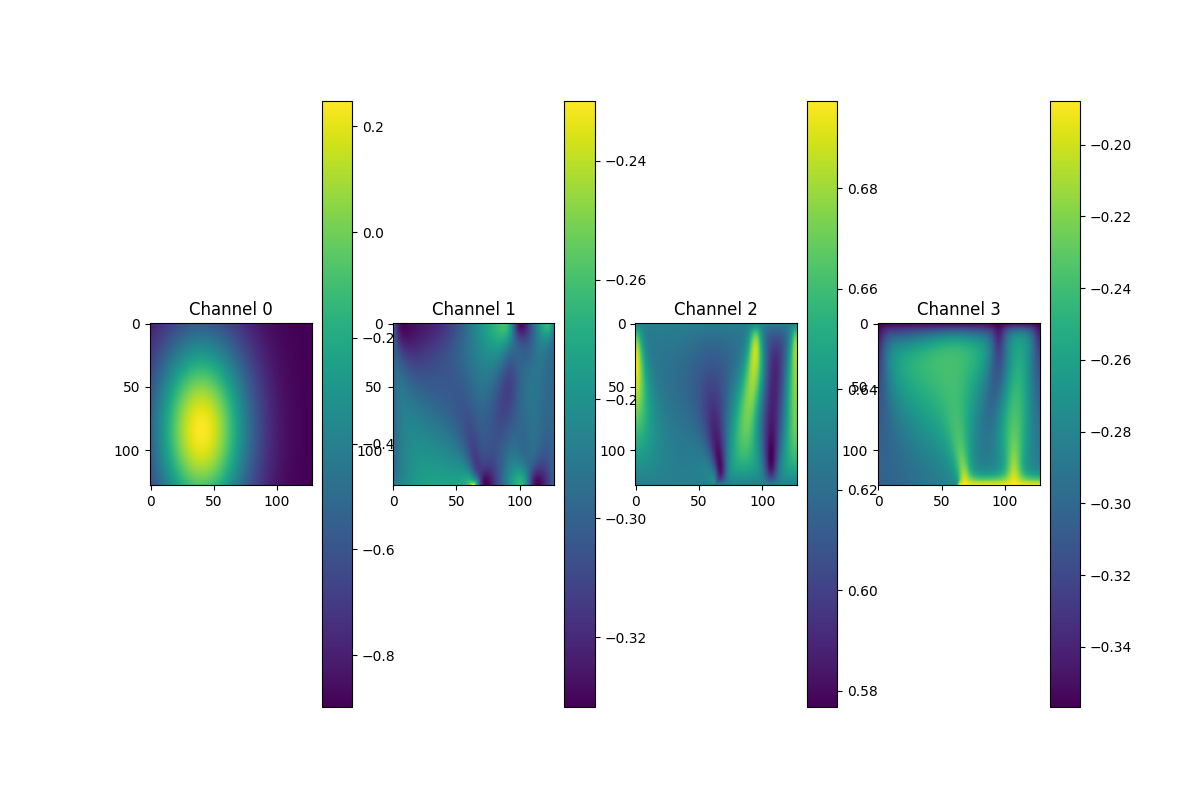
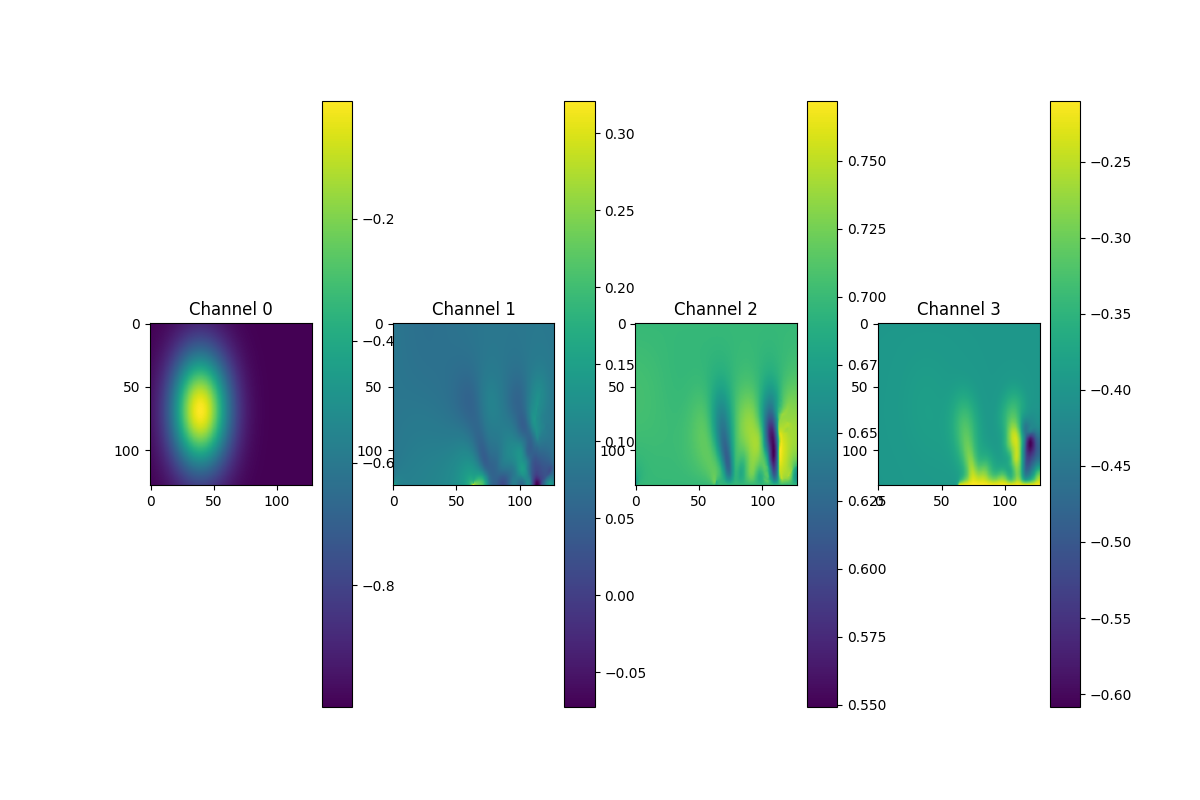
Initial commit

diff --git a/training/training_loop.py b/training/training_loop.py
@@ -1,0 +1,218 @@
+# Copyright (c) 2022, NVIDIA CORPORATION & AFFILIATES. All rights reserved.
+#
+# This work is licensed under a Creative Commons
+# Attribution-NonCommercial-ShareAlike 4.0 International License.
+# You should have received a copy of the license along with this
+# work. If not, see http://creativecommons.org/licenses/by-nc-sa/4.0/
+
+"""Main training loop."""
+
+import os
+import time
+import copy
+import json
+import pickle
+import psutil
+import numpy as np
+import torch
+import dnnlib
+from torch_utils import distributed as dist
+from torch_utils import training_stats
+from torch_utils import misc
+
+#----------------------------------------------------------------------------
+
+def training_loop(
+    run_dir             = '.',      # Output directory.
+    dataset_kwargs      = {},       # Options for training set.
+    data_loader_kwargs  = {},       # Options for torch.utils.data.DataLoader.
+    network_kwargs      = {},       # Options for model and preconditioning.
+    loss_kwargs         = {},       # Options for loss function.
+    optimizer_kwargs    = {},       # Options for optimizer.
+    augment_kwargs      = None,     # Options for augmentation pipeline, None = disable.
+    seed                = 0,        # Global random seed.
+    batch_size          = 512,      # Total batch size for one training iteration.
+    batch_gpu           = None,     # Limit batch size per GPU, None = no limit.
+    total_kimg          = 200000,   # Training duration, measured in thousands of training images.
+    ema_halflife_kimg   = 500,      # Half-life of the exponential moving average (EMA) of model weights.
+    ema_rampup_ratio    = 0.05,     # EMA ramp-up coefficient, None = no rampup.
+    lr_rampup_kimg      = 10000,    # Learning rate ramp-up duration.
+    loss_scaling        = 1,        # Loss scaling factor for reducing FP16 under/overflows.
+    kimg_per_tick       = 50,       # Interval of progress prints.
+    snapshot_ticks      = 50,       # How often to save network snapshots, None = disable.
+    state_dump_ticks    = 500,      # How often to dump training state, None = disable.
+    resume_pkl          = None,     # Start from the given network snapshot, None = random initialization.
+    resume_state_dump   = None,     # Start from the given training state, None = reset training state.
+    resume_kimg         = 0,        # Start from the given training progress.
+    cudnn_benchmark     = True,     # Enable torch.backends.cudnn.benchmark?
+    device              = torch.device('cuda'),
+):
+    # Initialize.
+    start_time = time.time()
+    np.random.seed((seed * dist.get_world_size() + dist.get_rank()) % (1 << 31))
+    torch.manual_seed(np.random.randint(1 << 31))
+    torch.backends.cudnn.benchmark = cudnn_benchmark
+    torch.backends.cudnn.allow_tf32 = False
+    torch.backends.cuda.matmul.allow_tf32 = False
+    torch.backends.cuda.matmul.allow_fp16_reduced_precision_reduction = False
+
+    # Select batch size per GPU.
+    batch_gpu_total = batch_size // dist.get_world_size()
+    if batch_gpu is None or batch_gpu > batch_gpu_total:
+        batch_gpu = batch_gpu_total
+    num_accumulation_rounds = batch_gpu_total // batch_gpu
+    assert batch_size == batch_gpu * num_accumulation_rounds * dist.get_world_size()
+
+    # Load dataset.
+    dist.print0('Loading dataset...')
+    dataset_obj = dnnlib.util.construct_class_by_name(**dataset_kwargs) # subclass of training.dataset.Dataset
+    dataset_sampler = misc.InfiniteSampler(dataset=dataset_obj, rank=dist.get_rank(), num_replicas=dist.get_world_size(), seed=seed)
+    dataset_iterator = iter(torch.utils.data.DataLoader(dataset=dataset_obj, sampler=dataset_sampler, batch_size=batch_gpu, **data_loader_kwargs))
+
+    # Construct network.
+    dist.print0('Constructing network...')
+    interface_kwargs = dict(img_resolution=dataset_obj.resolution, img_channels=dataset_obj.num_channels, label_dim=dataset_obj.label_dim)
+    net = dnnlib.util.construct_class_by_name(**network_kwargs, **interface_kwargs) # subclass of torch.nn.Module
+    net.train().requires_grad_(True).to(device)
+    if dist.get_rank() == 0:
+        with torch.no_grad():
+            images = torch.zeros([batch_gpu, net.img_channels, net.img_resolution, net.img_resolution], device=device)
+            sigma = torch.ones([batch_gpu], device=device)
+            labels = torch.zeros([batch_gpu, net.label_dim], device=device)
+            misc.print_module_summary(net, [images, sigma, labels], max_nesting=2)
+
+    # Setup optimizer.
+    dist.print0('Setting up optimizer...')
+    loss_fn = dnnlib.util.construct_class_by_name(**loss_kwargs) # training.loss.(VP|VE|EDM)Loss
+    optimizer = dnnlib.util.construct_class_by_name(params=net.parameters(), **optimizer_kwargs) # subclass of torch.optim.Optimizer
+    augment_pipe = dnnlib.util.construct_class_by_name(**augment_kwargs) if augment_kwargs is not None else None # training.augment.AugmentPipe
+    ddp = torch.nn.parallel.DistributedDataParallel(net, device_ids=[device], broadcast_buffers=False)
+    ema = copy.deepcopy(net).eval().requires_grad_(False)
+
+    # Resume training from previous snapshot.
+    if resume_pkl is not None:
+        dist.print0(f'Loading network weights from "{resume_pkl}"...')
+        if dist.get_rank() != 0:
+            torch.distributed.barrier() # rank 0 goes first
+        with dnnlib.util.open_url(resume_pkl, verbose=(dist.get_rank() == 0)) as f:
+            data = pickle.load(f)
+        if dist.get_rank() == 0:
+            torch.distributed.barrier() # other ranks follow
+        misc.copy_params_and_buffers(src_module=data['ema'], dst_module=net, require_all=False)
+        misc.copy_params_and_buffers(src_module=data['ema'], dst_module=ema, require_all=False)
+        del data # conserve memory
+    if resume_state_dump:
+        dist.print0(f'Loading training state from "{resume_state_dump}"...')
+        data = torch.load(resume_state_dump, map_location=torch.device('cpu'), weights_only=False)
+        misc.copy_params_and_buffers(src_module=data['net'], dst_module=net, require_all=True)
+        optimizer.load_state_dict(data['optimizer_state'])
+        del data # conserve memory
+
+    # Train.
+    dist.print0(f'Training for {total_kimg} kimg...')
+    dist.print0()
+    cur_nimg = resume_kimg * 1000
+    cur_tick = 0
+    tick_start_nimg = cur_nimg
+    tick_start_time = time.time()
+    maintenance_time = tick_start_time - start_time
+    dist.update_progress(cur_nimg // 1000, total_kimg)
+    stats_jsonl = None
+    while True:
+
+        # Accumulate gradients.
+        optimizer.zero_grad(set_to_none=True)
+        for round_idx in range(num_accumulation_rounds):
+            with misc.ddp_sync(ddp, (round_idx == num_accumulation_rounds - 1)):
+                images, labels = next(dataset_iterator)
+
+                images = images.to(device).to(torch.float32) # normalize to -1..+1
+                labels = labels.to(device)
+                loss = loss_fn(net=ddp, images=images, labels=labels, augment_pipe=augment_pipe)
+                training_stats.report('Loss/loss', loss)
+                loss.sum().mul(loss_scaling / batch_gpu_total).backward()
+
+        # Update weights.
+        for g in optimizer.param_groups:
+            g['lr'] = optimizer_kwargs['lr'] * min(cur_nimg / max(lr_rampup_kimg * 1000, 1e-8), 1)
+        for param in net.parameters():
+            if param.grad is not None:
+                torch.nan_to_num(param.grad, nan=0, posinf=1e5, neginf=-1e5, out=param.grad)
+        torch.nn.utils.clip_grad_norm_(net.parameters(), max_norm=1.5)    # 20250415
+        optimizer.step()
+
+        # Update EMA.
+        ema_halflife_nimg = ema_halflife_kimg * 1000
+        if ema_rampup_ratio is not None:
+            ema_halflife_nimg = min(ema_halflife_nimg, cur_nimg * ema_rampup_ratio)
+        ema_beta = 0.5 ** (batch_size / max(ema_halflife_nimg, 1e-8))
+        for p_ema, p_net in zip(ema.parameters(), net.parameters()):
+            p_ema.copy_(p_net.detach().lerp(p_ema, ema_beta))
+
+        # Perform maintenance tasks once per tick.
+        cur_nimg += batch_size
+        done = (cur_nimg >= total_kimg * 1000)
+        if (not done) and (cur_tick != 0) and (cur_nimg < tick_start_nimg + kimg_per_tick * 1000):
+            continue
+
+        # Print status line, accumulating the same information in training_stats.
+        tick_end_time = time.time()
+        fields = []
+        fields += [f"tick {training_stats.report0('Progress/tick', cur_tick):<5d}"]
+        fields += [f"kimg {training_stats.report0('Progress/kimg', cur_nimg / 1e3):<9.1f}"]
+        fields += [f"time {dnnlib.util.format_time(training_stats.report0('Timing/total_sec', tick_end_time - start_time)):<12s}"]
+        fields += [f"sec/tick {training_stats.report0('Timing/sec_per_tick', tick_end_time - tick_start_time):<7.1f}"]
+        fields += [f"sec/kimg {training_stats.report0('Timing/sec_per_kimg', (tick_end_time - tick_start_time) / (cur_nimg - tick_start_nimg) * 1e3):<7.2f}"]
+        fields += [f"maintenance {training_stats.report0('Timing/maintenance_sec', maintenance_time):<6.1f}"]
+        fields += [f"cpumem {training_stats.report0('Resources/cpu_mem_gb', psutil.Process(os.getpid()).memory_info().rss / 2**30):<6.2f}"]
+        fields += [f"gpumem {training_stats.report0('Resources/peak_gpu_mem_gb', torch.cuda.max_memory_allocated(device) / 2**30):<6.2f}"]
+        fields += [f"reserved {training_stats.report0('Resources/peak_gpu_mem_reserved_gb', torch.cuda.max_memory_reserved(device) / 2**30):<6.2f}"]
+        torch.cuda.reset_peak_memory_stats()
+        dist.print0(' '.join(fields))
+
+        # Check for abort.
+        if (not done) and dist.should_stop():
+            done = True
+            dist.print0()
+            dist.print0('Aborting...')
+
+        # Save network snapshot.
+        if (snapshot_ticks is not None) and (done or cur_tick % snapshot_ticks == 0):
+            data = dict(ema=ema, loss_fn=loss_fn, augment_pipe=augment_pipe, dataset_kwargs=dict(dataset_kwargs))
+            for key, value in data.items():
+                if isinstance(value, torch.nn.Module):
+                    value = copy.deepcopy(value).eval().requires_grad_(False)
+                    misc.check_ddp_consistency(value)
+                    data[key] = value.cpu()
+                del value # conserve memory
+            if dist.get_rank() == 0:
+                with open(os.path.join(run_dir, f'network-snapshot-{cur_nimg//1000:06d}.pkl'), 'wb') as f:
+                    pickle.dump(data, f)
+            del data # conserve memory
+
+        # Save full dump of the training state.
+        if (state_dump_ticks is not None) and (done or cur_tick % state_dump_ticks == 0) and cur_tick != 0 and dist.get_rank() == 0:
+            torch.save(dict(net=net, optimizer_state=optimizer.state_dict()), os.path.join(run_dir, f'training-state-{cur_nimg//1000:06d}.pt'))
+
+        # Update logs.
+        training_stats.default_collector.update()
+        if dist.get_rank() == 0:
+            if stats_jsonl is None:
+                stats_jsonl = open(os.path.join(run_dir, 'stats.jsonl'), 'at')
+            stats_jsonl.write(json.dumps(dict(training_stats.default_collector.as_dict(), timestamp=time.time())) + '\n')
+            stats_jsonl.flush()
+        dist.update_progress(cur_nimg // 1000, total_kimg)
+
+        # Update state.
+        cur_tick += 1
+        tick_start_nimg = cur_nimg
+        tick_start_time = time.time()
+        maintenance_time = tick_start_time - tick_end_time
+        if done:
+            break
+
+    # Done.
+    dist.print0()
+    dist.print0('Exiting...')
+
+#----------------------------------------------------------------------------

diff --git a/merge_data_Elder_4_10.py b/merge_data_Elder_4_10.py
@@ -6,9 +6,9 @@ from scipy.io import loadmat
 import time
 start_time = time.time()
 
-num_samples = 10
-time_steps = 11
-H, W, C = 128, 128, 34
+num_samples = 1000
+time_steps = 1
+H, W, C = 128, 128, 4
 
 output_base_path = "/data/yangchangfan/DiffusionPDE/data/Elder-merged/merge_{}.npy"
 # Create the output directory if it doesn't exist
@@ -17,10 +17,10 @@ os.makedirs(os.path.dirname(output_base_path), exist_ok=True)
 data_base_path = "/data/yangchangfan/DiffusionPDE/data/training/Elder/"
 
 # -------------------- 加载归一化范围 --------------------
-range_allS_c = sio.loadmat(os.path.join(data_base_path, "S_c/range_S_c_t.mat"))['range_S_c_t'][0]
-range_allu_u = sio.loadmat(os.path.join(data_base_path, "u_u/range_u_u_t.mat"))['range_u_u_t']
-range_allu_v = sio.loadmat(os.path.join(data_base_path, "u_v/range_u_v_t.mat"))['range_u_v_t']
-range_allc_flow = sio.loadmat(os.path.join(data_base_path, "c_flow/range_c_flow_t.mat"))['range_c_flow_t']
+range_allS_c = sio.loadmat(os.path.join(data_base_path, "S_c/range_allS_c.mat"))['range_allS_c'][0]
+range_allu_u = sio.loadmat(os.path.join(data_base_path, "u_u/range_allu_u.mat"))['range_allu_u'][0]
+range_allu_v = sio.loadmat(os.path.join(data_base_path, "u_v/range_allu_v.mat"))['range_allu_v'][0]
+range_allc_flow = sio.loadmat(os.path.join(data_base_path, "c_flow/range_allc_flow.mat"))['range_allc_flow'][0]
 
 ranges = {
     'S_c': range_allS_c,
@@ -31,11 +31,11 @@ ranges = {
 
 
 def minmax_normalize(x, min_val, max_val):
-    return -1 + 2 * (x - min_val) / (max_val - min_val)
+    return -0.9 + 1.8 * (x - min_val) / (max_val - min_val)
 
 # -------------------- 主循环 --------------------
 for i in range(1, num_samples + 1):
-    combined_data = np.zeros((H, W, C), dtype=np.float32)
+    combined_data = np.zeros((H, W, C), dtype=np.float64)
 
     # ---------- S_c ----------
     path_Sc = os.path.join(data_base_path, 'S_c', str(i), '0.mat')
@@ -46,22 +46,23 @@ for i in range(1, num_samples + 1):
 
     # ---------- u_u, u_v, c_flow ----------
     var_names = ['u_u', 'u_v', 'c_flow']
+    for var_idx, var in enumerate(var_names):
+        min_val, max_val = ranges[var]
 
-    for t in range(0, time_steps ):
-        # 时域场 t=0~10
-        for var_idx, var in enumerate(var_names):
-            min_val, max_val = ranges[var][t]
-
+        # 时域场 t=1~10
+        # for t in range(1, time_steps + 1):
+        for t in range(10,11):   
             path_t = os.path.join(data_base_path, var, str(i), f'{t}.mat')
             data_t = loadmat(path_t)
             data_t = list(data_t.values())[-1]
             data_t_n = minmax_normalize(data_t, min_val, max_val)
-            ch_idx = 1 + var_idx * time_steps + t
+            ch_idx = 1 + var_idx * time_steps 
             combined_data[:, :, ch_idx] = data_t_n
 
-    # ---------- 保存 .npy ----------
-    out_path = output_base_path.format(i)
-    np.save(out_path, combined_data)
+    # 复制数据并保存
+    for repeat_idx in range(10):  # 每个样本复制10次
+        out_path = output_base_path.format((i - 1) * 10 + repeat_idx + 1)
+        np.save(out_path, combined_data)
 
     # 打印部分信息
     if i % 200 == 0:
@@ -69,5 +70,4 @@ for i in range(1, num_samples + 1):
 
 
 print("Finished processing all files.")
-print(f"运行时间: {time.time() - start_time} 秒")    
-
+print(f"运行时间: {time.time() - start_time} 秒")

diff --git a/test_merge_Elder.py b/test_merge_Elder.py
@@ -14,28 +14,30 @@ combined_data = np.load(merged_file)
 # pred_fields = combined_data[:, :, [0, 4, 14, 24]] # S_c_0, u_u_1, u_v_1, c_flow_1
 # pred_fields = combined_data[:, :, [0, 5, 15, 25]] # S_c_0, u_u_2, u_v_2, c_flow_2
 # pred_fields = combined_data[:, :, [0, 6, 16, 26]] # S_c_0, u_u_3, u_v_3, c_flow_3
-# pred_fields = combined_data[:, :, [0, 13, 23, 33]] # S_c_0, u_u_10, u_v_10, c_flow_10
 
-pred_fields = combined_data[:, :, :] # S_c_0, u_u_10, u_v_10, c_flow_10
+pred_fields = combined_data[:, :, [0 , 11, 22, 33]] # S_c_0, u_u_10, u_v_10, c_flow_10
+
+# pred_fields = combined_data[:, :, :] # S_c_0, u_u_10, u_v_10, c_flow_10
 
 # === 加载归一化范围 ===
 ranges = {
-    "S_c": loadmat(os.path.join(gt_base_path, "S_c", "range_allS_c.mat"))["range_allS_c"][0],
-    "u_u": loadmat(os.path.join(gt_base_path, "u_u", "range_allu_u.mat"))["range_allu_u"][0],
-    "u_v": loadmat(os.path.join(gt_base_path, "u_v", "range_allu_v.mat"))["range_allu_v"][0],
-    "c_flow": loadmat(os.path.join(gt_base_path, "c_flow", "range_allc_flow.mat"))["range_allc_flow"][0],
+    "S_c": loadmat(os.path.join(gt_base_path, "S_c", "range_S_c_t.mat"))["range_S_c_t"],
+    "u_u": loadmat(os.path.join(gt_base_path, "u_u", "range_u_u_t.mat"))["range_u_u_t"],
+    "u_v": loadmat(os.path.join(gt_base_path, "u_v", "range_u_v_t.mat"))["range_u_v_t"],
+    "c_flow": loadmat(os.path.join(gt_base_path, "c_flow", "range_c_flow_t.mat"))["range_c_flow_t"],
 }
 
 # === 反归一化函数 ===
 def minmax_denormalize(x, min_val, max_val):
     return (x + 0.9) * (max_val - min_val) / 1.8 + min_val
 
+print(ranges["S_c"].shape)
 # === 执行反归一化 ===
 denorm_fields = [
-    minmax_denormalize(pred_fields[:, :, 0], *ranges["S_c"]),
-    minmax_denormalize(pred_fields[:, :, 1], *ranges["u_u"]),
-    minmax_denormalize(pred_fields[:, :, 2], *ranges["u_v"]),
-    minmax_denormalize(pred_fields[:, :, 3], *ranges["c_flow"]),
+    minmax_denormalize(pred_fields[:, :, 0], *ranges["S_c"][10]),
+    minmax_denormalize(pred_fields[:, :, 1], *ranges["u_u"][10]),
+    minmax_denormalize(pred_fields[:, :, 2], *ranges["u_v"][10]),
+    minmax_denormalize(pred_fields[:, :, 3], *ranges["c_flow"][10]),
 ]
 
 # === 加载 Ground Truth 原始数据 ===
@@ -47,7 +49,7 @@ gt_fields = [
 ]
 
 # === 可视化对比 ===
-titles = ["S_c", "u_u_0", "u_v_0", "c_flow_0"]
+titles = ["S_c", "u_u_10", "u_v_10", "c_flow_10"]
 fig, axs = plt.subplots(2, 4, figsize=(16, 8))
 
 for i in range(4):

diff --git a/test_merge.py b/test_merge.py
@@ -154,18 +154,18 @@ import os
 # # print("Content of 'u':", u)
 
 
-data_Elder = np.load("/data/yangchangfan/DiffusionPDE/data/Elder-merged/merge_1.npy")
+data_Elder = np.load("/data/yangchangfan/DiffusionPDE/data/Elder-merged/merge_4.npy")
 
 print(data_Elder.shape)
 # exit()
 
 
 plt.figure(figsize=(12, 8))  # 可以调整窗口大小
-
+channels = [0, 2, 13, 24]
 # 绘制子图
-for i in range(4):
+for i, channel in enumerate(channels):
     plt.subplot(1, 4, i + 1)  # 创建 2x2 的子图布局
-    plt.imshow(data_Elder[:, :, i])  # 绘制第 i 个通道的数据
+    plt.imshow(data_Elder[:, :, channel])  # 绘制第 i 个通道的数据
     plt.title(f"Channel {i}")  # 添加标题
     plt.colorbar()  # 添加颜色条（可选）
 
